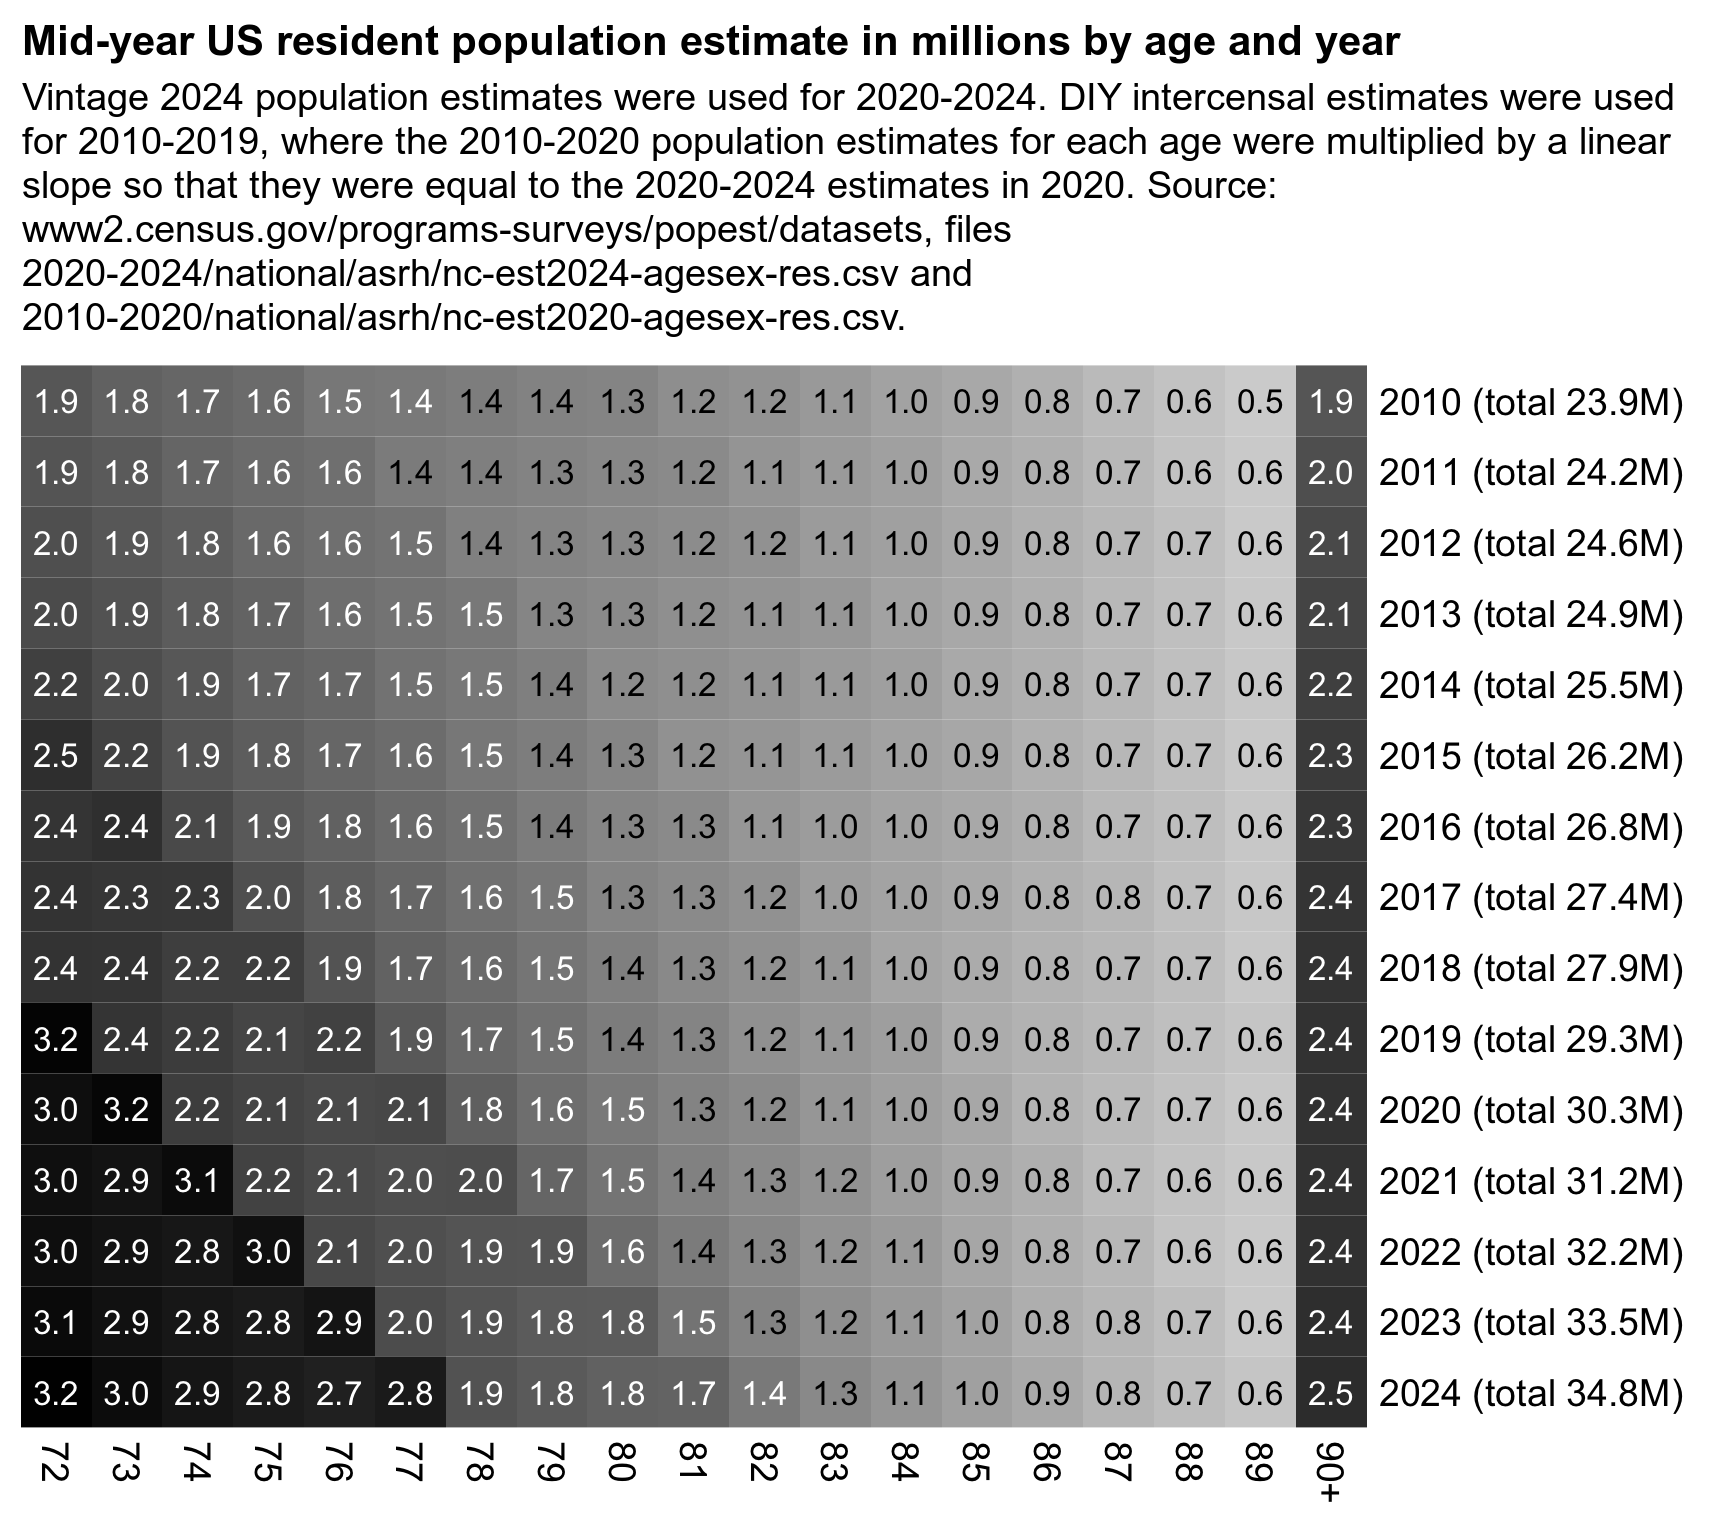
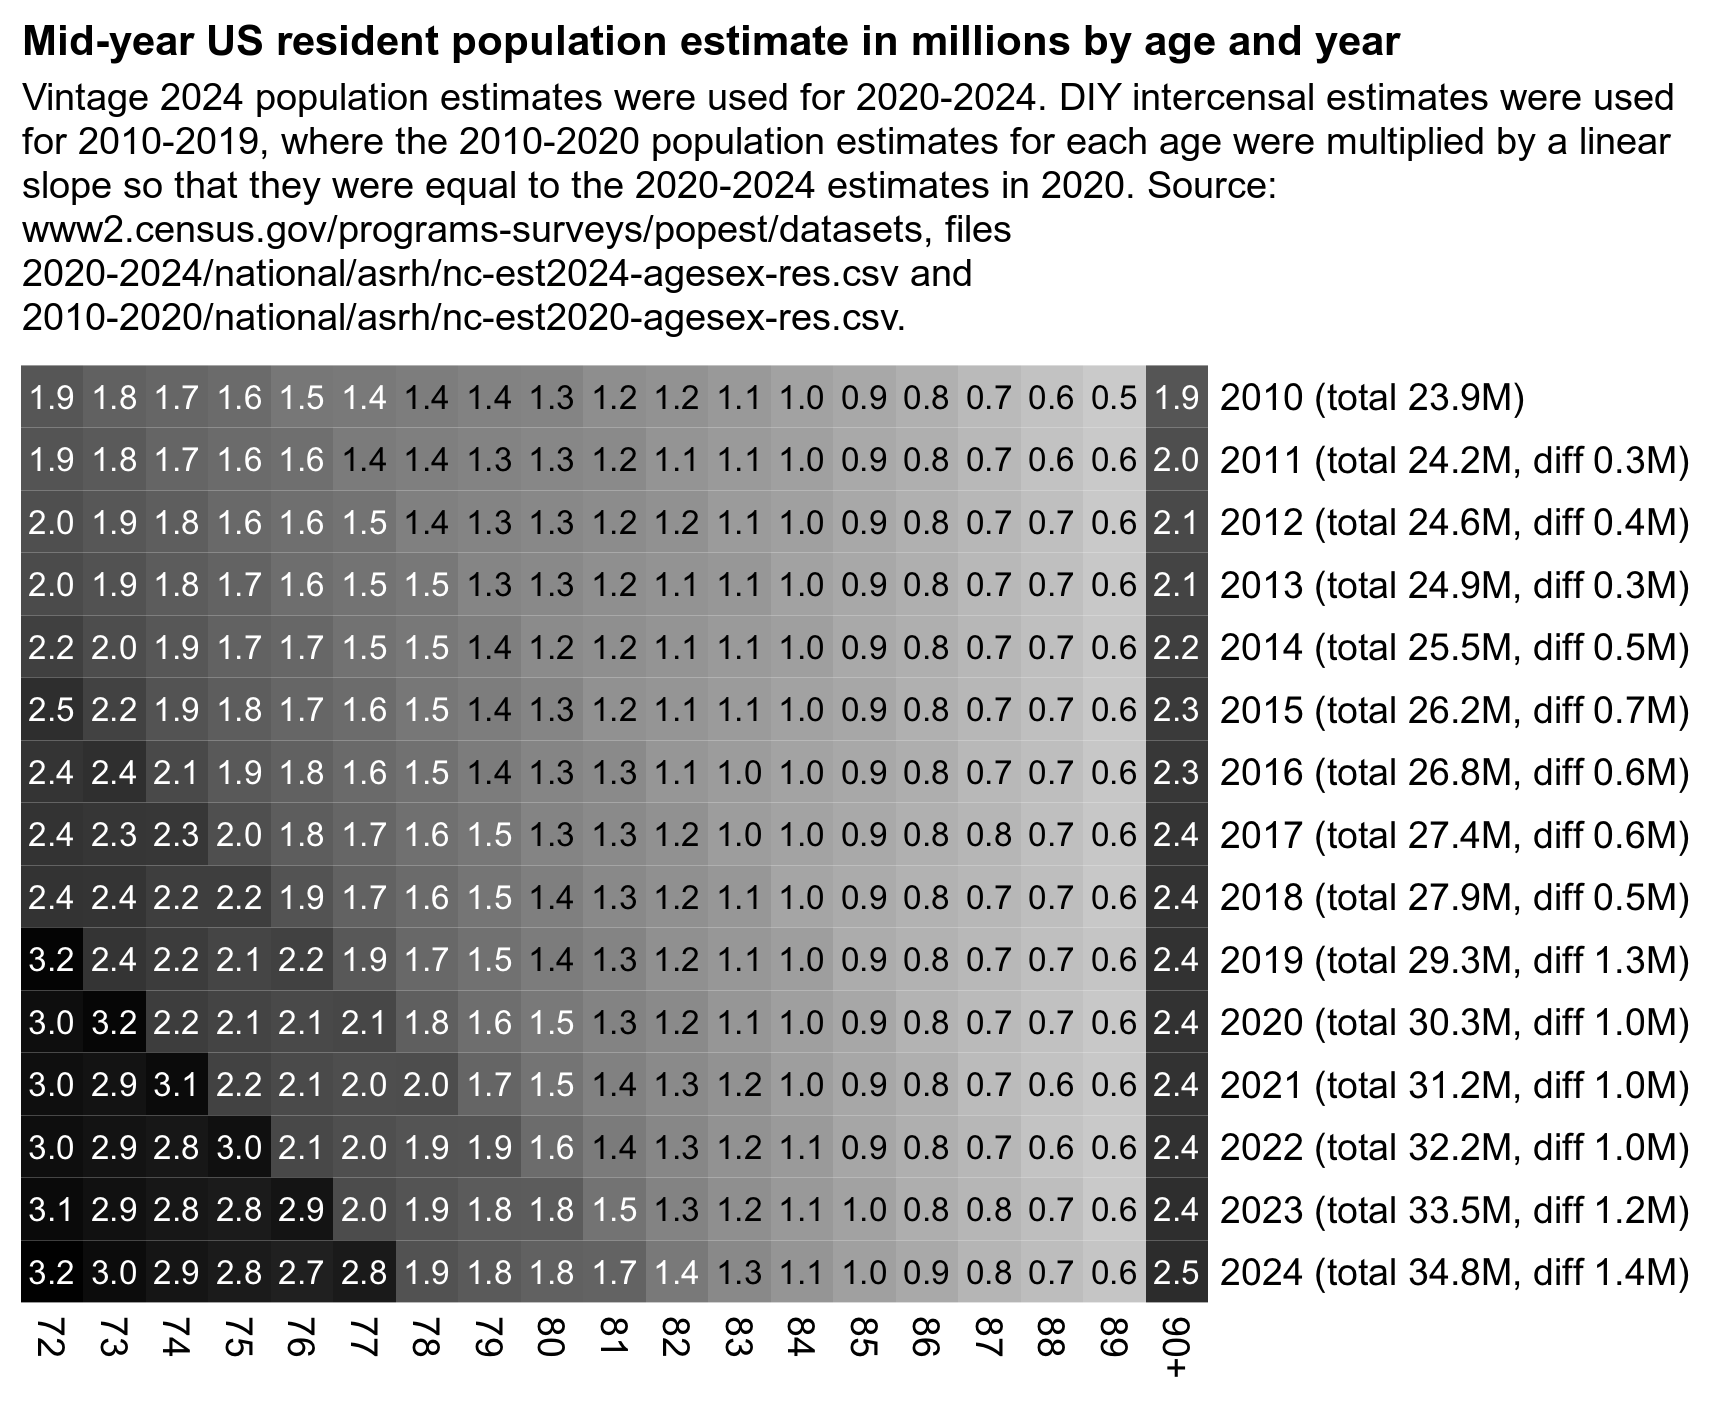
a

Changed region(s): [[0.0, 0.0, 0.9907, 0.9688]]

diff --git a/rootclaim3.html b/rootclaim3.html
@@ -13,7 +13,6 @@ h3{font-size:1.3em}
 h4{font-size:1.1em}
 blockquote h2,blockquote h3,blockquote h4,blockquote h5{margin:.5em 0 0 0}
 blockquote ul,blockquote ol{margin:.4em}
-blockquote p{margin:.7em 0}
 a{color:hsl(220,100%,75%)}
 a:visited{color:hsl(270,100%,75%)}
 pre,code{white-space:pre-wrap;word-wrap:break-word;font:14px Menlo,'DejaVu Sans Mono','Liberation Mono',Consolas,monospace;background:#4a4a4a;color:white}
@@ -1046,7 +1045,7 @@ Drop
 Show code
 </button>
 <pre># https://sars2.net/stat.html#Download_fixed_width_and_CSV_files_for_the_NVSS_data_used_at_CDC_WONDER
-v=fread(&quot;xz -dc http://sars2.net/f/vital.csv.xz&quot;)
+v=fread(&quot;curl -Ls sars2.net/f/vital.csv.xz|xz -dc&quot;)
 
 icd3=fread(text=&quot;code;cause
 Y62.3;Failure of sterile precautions during injection or immunization
@@ -3126,7 +3125,21 @@ print(mutate_if(o,is.double,round,2),r=F)
 <script>
 document.querySelectorAll('pre').forEach(e=>e.innerHTML=e.innerHTML.replace(/((^| )# [^\n]*|^#$)/mg,"<span class=comment>$1</span>"))
 
-document.querySelectorAll('a,code,pre').forEach(e=>e.innerHTML=e.innerHTML.replace(/(\w{60,})/g,x=>x.replace(/./g,'$&<wbr>')).replace(/([!#$%()*+,\-.:?@[\]\\]^_{|}~'])/g,'$1<wbr>').replace(/([^<])\//g,"$1/<wbr>"))
+const walker=document.createTreeWalker(document.body,NodeFilter.SHOW_TEXT,null,false)
+const nodes=[];while(walker.nextNode())nodes.push(walker.currentNode)
+nodes.forEach(node=>{
+  const text=node.textContent
+  if(text.split(/\s+/).some(piece=>piece.length>=20)){
+    const parent=node.parentNode
+    const frag=document.createDocumentFragment()
+    const parts=text.split(/([\041-\057\072-\100\133-\140\173-\176])/g)
+    for(let i=0;i<parts.length;i++){
+      frag.appendChild(document.createTextNode(parts[i]))
+      if(i%2===1)frag.appendChild(document.createElement('wbr'))
+    }
+    parent.replaceChild(frag,node)
+  }
+})
 
 document.querySelectorAll('.spoiler button').forEach(x=>{x.addEventListener('click',function(){
   let block=this.nextElementSibling

diff --git a/ethical2.html b/ethical2.html
@@ -2494,7 +2494,7 @@ t[,.(dead=sum(dead),base=sum(base)),.(year,month)][1:2]
 <p>His plot shows that the size of the age group 72 and above increased by about 15.1% between 2020 and 2024, even though the historic baseline increase over a 4-year period was only about 2.4%. But he didn't take baby boomers into account.</p>
 <p>The earliest baby boomers were born in mid-1946, so they turned 72 in mid-2018, but there were not yet many baby boomers included in the mid-year population estimate for ages 72 and above until 2019. But in the subsequent years the size of the age group 72 and above increased by about 1-1.4 million per year despite the large number of COVID deaths:</p>
 <div>
-<img src=i/ethical-72plus-2.png width=700>
+<img src=i/ethical-72plus-2.png width=740>
 </div>
 <div class="spoiler">
 <button>
@@ -2515,7 +2515,8 @@ inter=old[,.(year,age,pop=round(pop*(1-(((year-2010)/10))*(1-mult))))]
 a=rbind(inter[year&lt;2020],new)[age&gt;=72,.(pop=sum(pop)),.(age=ifelse(age&gt;89,&quot;90+&quot;,age),year)]
 
 m=xtabs(pop/1e6~year+age,a)
-rownames(m)=sprintf(&quot;%s (total %.1fM)&quot;,rownames(m),rowSums(m))
+rs=rowSums(m)
+rownames(m)=sprintf(&quot;%s (total %.1fM%s)&quot;,rownames(m),rs,c(&quot;&quot;,sprintf(&quot;, diff %.1fM&quot;,diff(rs))))
 disp=m;disp[]=sprintf(&quot;%.1f&quot;,m)
 
 pheatmap::pheatmap(m,filename=&quot;1.png&quot;,display_numbers=disp,
